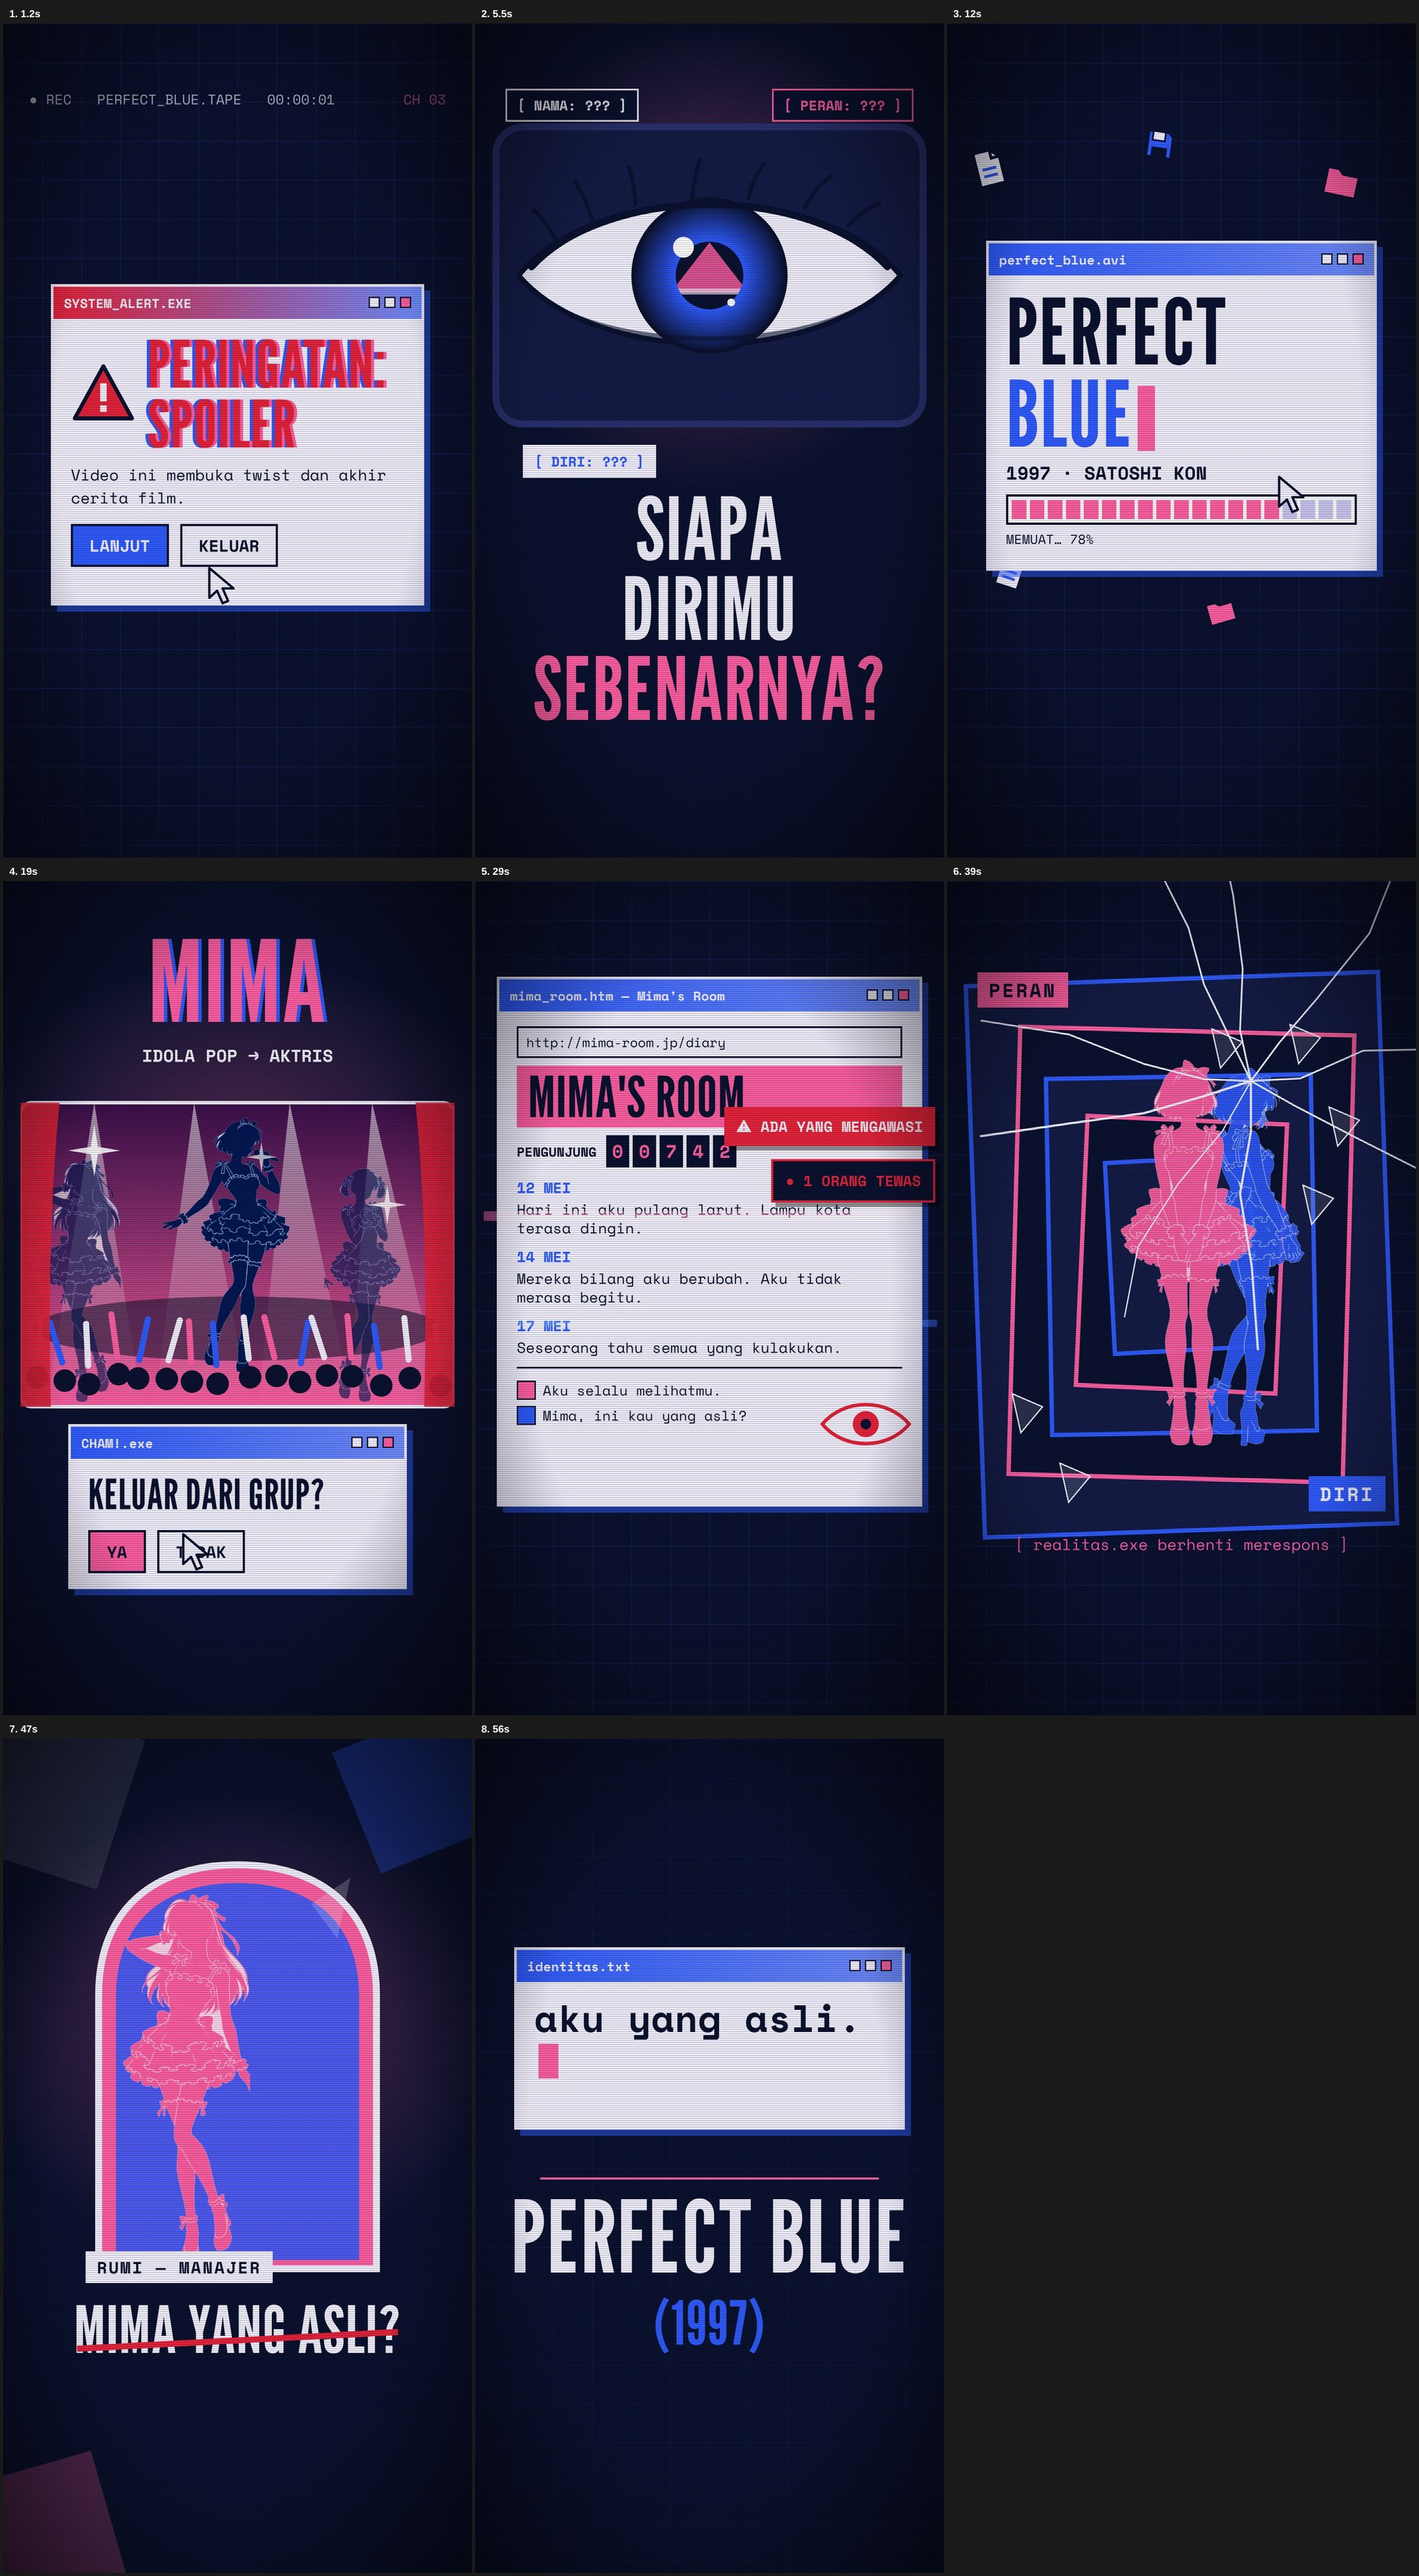
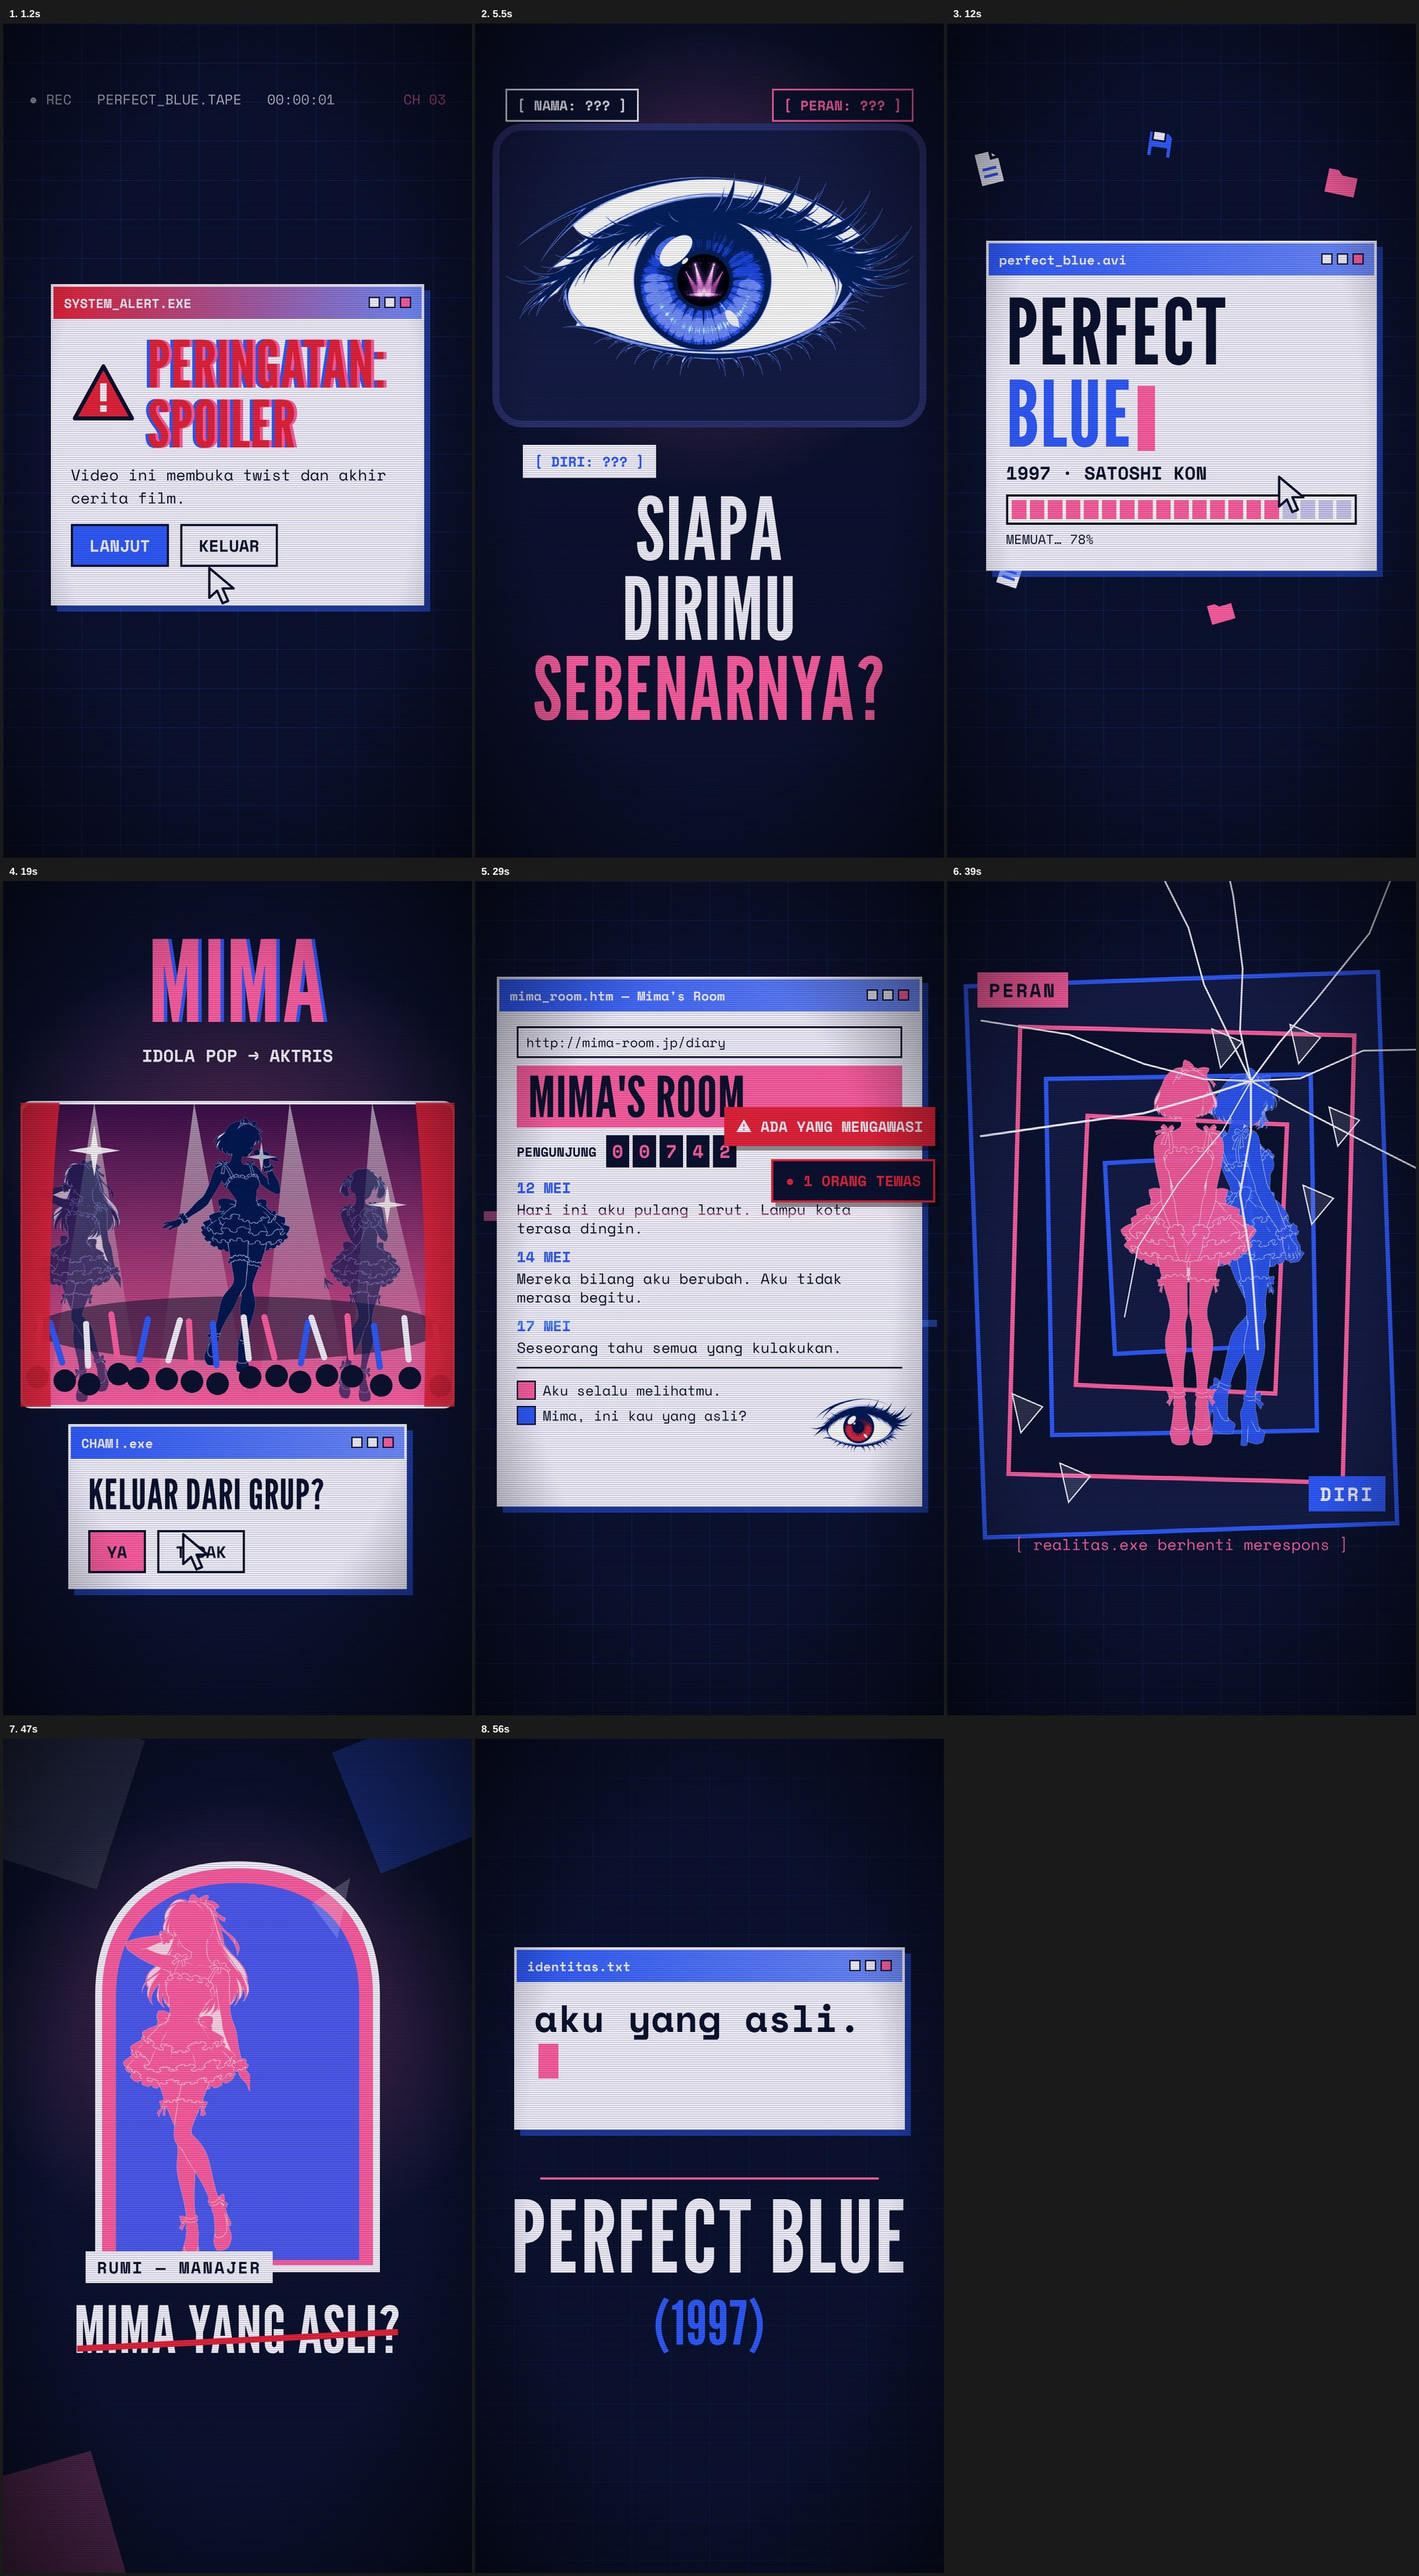
Perfect Blue: use supplied eye art in frames 2 and 5
Claude-Session: https://claude.ai/code/session_01AV2R8hqAjcwuZcRjF8toeJ

Changed region(s): [[0.37, 0.0619, 0.6476, 0.1548], [0.5859, 0.5263, 0.6476, 0.5882]]

diff --git a/videos/perfect-blue-60s/index.html b/videos/perfect-blue-60s/index.html
@@ -49,20 +49,7 @@ html,body{margin:0;background:#0b1230}
       <section id="f2" class="scene clip" data-start="2.5" data-duration="6.5" data-track-index="1">
 <div class="abs" style="inset:0;background:radial-gradient(ellipse 70% 40% at 50% 28%,#ff5fa255,transparent 70%)"></div>
 <div class="abs" style="left:40px;top:230px;width:1000px;height:700px;border:16px solid #2a3170;border-radius:70px;background:#141c46"></div>
-<svg class="abs" style="left:70px;top:290px" width="940" height="560" viewBox="0 0 940 560">
- <defs><radialGradient id="iris" cx="50%" cy="50%" r="50%"><stop offset="0" stop-color="#ff5fa2"/><stop offset=".45" stop-color="#2f5bff"/><stop offset="1" stop-color="#0b1230"/></radialGradient>
- <clipPath id="pupilclip"><circle cx="470" cy="290" r="78"/></clipPath></defs>
- <path d="M30 290 C210 70 730 70 910 290 C730 500 210 500 30 290 Z" fill="#f2f0ff" stroke="#0b1230" stroke-width="12" stroke-linejoin="round"/>
- <circle cx="470" cy="290" r="176" fill="url(#iris)" stroke="#0b1230" stroke-width="8"/>
- <circle cx="470" cy="290" r="78" fill="#0b1230"/>
- <g clip-path="url(#pupilclip)"><path d="M470 214 L420 330 H520 Z M470 214 L380 330 H430 Z M470 214 L510 330 H560 Z" fill="#ff5fa2" opacity=".85"/><rect x="380" y="320" width="180" height="14" fill="#f2f0ff" opacity=".6"/></g>
- <circle cx="410" cy="225" r="24" fill="#fff"/><circle cx="520" cy="352" r="9" fill="#fff"/>
- <path d="M60 270 C 235 80 700 78 880 270" fill="none" stroke="#0b1230" stroke-width="16" stroke-linecap="round"/>
- <g stroke="#0b1230" stroke-width="9" stroke-linecap="round" fill="none">
-  <path d="M120 215 C100 180 88 160 66 140"/><path d="M200 160 C186 122 176 98 160 74"/><path d="M300 126 C296 86 292 62 284 40"/>
-  <path d="M430 110 C434 70 440 46 448 24"/><path d="M560 112 C568 74 580 52 596 32"/><path d="M690 134 C706 100 724 80 750 62"/><path d="M790 176 C812 150 836 134 862 124"/></g>
- <path d="M70 330 C230 470 700 470 868 330" fill="none" stroke="#0b1230" stroke-width="10" stroke-linecap="round" opacity=".6"/>
-</svg>
+<img id="f2-eye" class="abs" src="assets/figures/eye-blue.png" style="left:70px;top:345px;width:940px;height:auto">
 <div class="abs mono chip" style="left:70px;top:150px">[ NAMA: ??? ]</div>
 <div class="abs mono chip" style="right:70px;top:150px;color:#ff5fa2;border-color:#ff5fa2">[ PERAN: ??? ]</div>
 <div class="abs mono chip" style="left:110px;top:970px;color:#2f5bff;background:#f2f0ff">[ DIRI: ??? ]</div>
@@ -98,7 +85,7 @@ html,body{margin:0;background:#0b1230}
 <div id="f5-win" class="win" style="left:50px;top:220px;width:980px;height:1220px;"><div class="bar" style="background:linear-gradient(90deg,#2f5bff,#2f5bffaa)"><span>mima_room.htm — Mima's Room</span><span class="ctl"><i></i><i></i><i style="background:#ff5fa2"></i></span></div><div class="body"><div class="addr mono">http://mima-room.jp/diary</div><div class="head display" style="background:#ff5fa2;color:#0b1230">MIMA'S ROOM</div><div class="counter mono"><span>PENGUNJUNG</span><i>0</i><i>0</i><i>7</i><i>4</i><i>2</i></div><div class="entry"><b style="color:#2f5bff">12 MEI</b><p>Hari ini aku pulang larut. Lampu kota terasa dingin.</p></div><div class="entry"><b style="color:#2f5bff">14 MEI</b><p>Mereka bilang aku berubah. Aku tidak merasa begitu.</p></div><div class="entry"><b style="color:#2f5bff">17 MEI</b><p>Seseorang tahu semua yang kulakukan.</p></div><div class="cmts"><div class="cmt"><i style="background:#ff5fa2"></i><span>Aku selalu melihatmu.</span></div><div class="cmt"><i style="background:#2f5bff"></i><span>Mima, ini kau yang asli?</span></div></div></div></div>
 <div class="toast" style="top:520px;right:20px;background:#e5233b"><span class="mono">⚠ ADA YANG MENGAWASI</span></div>
 <div class="toast" style="top:640px;right:20px;background:#0b1230;border:5px solid #e5233b"><span class="mono" style="color:#e5233b">● 1 ORANG TEWAS</span></div>
-<svg class="abs" style="left:790px;top:1180px" width="220" height="140" viewBox="0 0 220 140"><path d="M10 70 C60 10 160 10 210 70 C160 130 60 130 10 70Z" fill="#f2f0ff" stroke="#e5233b" stroke-width="8"/><circle cx="110" cy="70" r="30" fill="#e5233b"/><circle cx="110" cy="70" r="12" fill="#0b1230"/></svg>
+<img id="f5-eye" class="abs" src="assets/figures/eye-red.png" style="left:770px;top:1190px;width:240px;height:auto">
 <div class="abs" style="left:50px;top:760px;width:980px;height:22px;background:#ff5fa2;mix-blend-mode:screen;opacity:.55;transform:translateX(-30px)"></div>
 <div class="abs" style="left:50px;top:1010px;width:980px;height:16px;background:#2f5bff;mix-blend-mode:screen;opacity:.6;transform:translateX(34px)"></div>
 <div class="scan"></div><div class="vig"></div></section>

diff --git a/videos/perfect-blue-60s/scripts/build_scenes.py b/videos/perfect-blue-60s/scripts/build_scenes.py
@@ -67,7 +67,7 @@ eye = f'''<svg class="abs" style="left:70px;top:290px" width="940" height="560" 
 f2 = f'''
 <div class="abs" style="inset:0;background:radial-gradient(ellipse 70% 40% at 50% 28%,{PINK}55,transparent 70%)"></div>
 <div class="abs" style="left:40px;top:230px;width:1000px;height:700px;border:16px solid #2a3170;border-radius:70px;background:{PANEL}"></div>
-{eye}
+<img id="f2-eye" class="abs" src="assets/figures/eye-blue.png" style="left:70px;top:345px;width:940px;height:auto">
 <div class="abs mono chip" style="left:70px;top:150px">[ NAMA: ??? ]</div>
 <div class="abs mono chip" style="right:70px;top:150px;color:{PINK};border-color:{PINK}">[ PERAN: ??? ]</div>
 <div class="abs mono chip" style="left:110px;top:970px;color:{BLUE};background:{PAPER}">[ DIRI: ??? ]</div>
@@ -130,7 +130,7 @@ f5 = f'''
  f'<div class="counter mono"><span>PENGUNJUNG</span>{"".join(f"<i>{n}</i>" for n in "00742")}</div>{ent}<div class="cmts">{cmts}</div>')}
 <div class="toast" style="top:520px;right:20px;background:{RED}"><span class="mono">⚠ ADA YANG MENGAWASI</span></div>
 <div class="toast" style="top:640px;right:20px;background:{NAVY};border:5px solid {RED}"><span class="mono" style="color:{RED}">● 1 ORANG TEWAS</span></div>
-<svg class="abs" style="left:790px;top:1180px" width="220" height="140" viewBox="0 0 220 140"><path d="M10 70 C60 10 160 10 210 70 C160 130 60 130 10 70Z" fill="{PAPER}" stroke="{RED}" stroke-width="8"/><circle cx="110" cy="70" r="30" fill="{RED}"/><circle cx="110" cy="70" r="12" fill="{NAVY}"/></svg>
+<img id="f5-eye" class="abs" src="assets/figures/eye-red.png" style="left:770px;top:1190px;width:240px;height:auto">
 <div class="abs" style="left:50px;top:760px;width:980px;height:22px;background:{PINK};mix-blend-mode:screen;opacity:.55;transform:translateX(-30px)"></div>
 <div class="abs" style="left:50px;top:1010px;width:980px;height:16px;background:{BLUE};mix-blend-mode:screen;opacity:.6;transform:translateX(34px)"></div>
 '''

diff --git a/videos/perfect-blue-60s/scripts/prep_figures.py b/videos/perfect-blue-60s/scripts/prep_figures.py
@@ -60,4 +60,9 @@ for nm, sl in (("idol-long", slice(0, cut)), ("idol-twin", slice(cut, w))):
     aa, ll = aa[y0:y1 + 1, x0:x1 + 1], ll[y0:y1 + 1, x0:x1 + 1]
     save(aa, ll, f"assets/figures/{nm}.png")
     for k in NEED[nm]: save(aa, ll, f"assets/figures/{nm}-{k}.png", *PAL[k])
+for name in ["eye-blue", "eye-red", "mima-stand2"]:
+    a, al = cutout(src + name + ".png")
+    # rapikan: potong ke kotak isi
+    ys, xs = np.where(al > 0.05); y0, y1, x0, x1 = ys.min(), ys.max(), xs.min(), xs.max()
+    save(a[y0:y1 + 1, x0:x1 + 1], al[y0:y1 + 1, x0:x1 + 1], f"assets/figures/{name}.png")
 print("ok")
